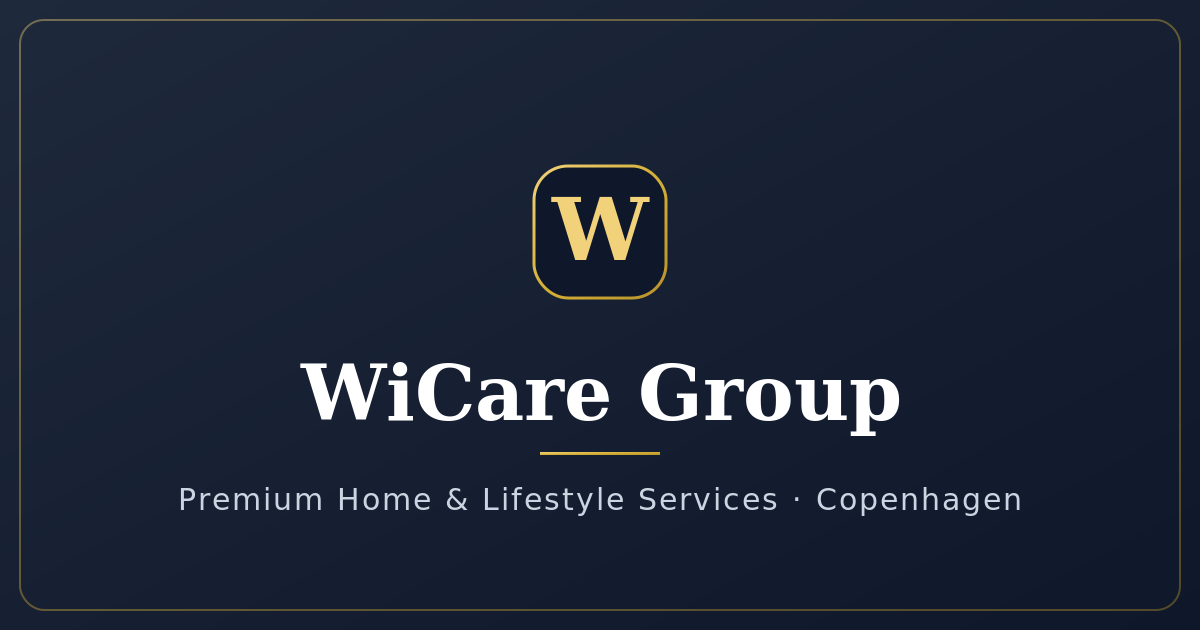
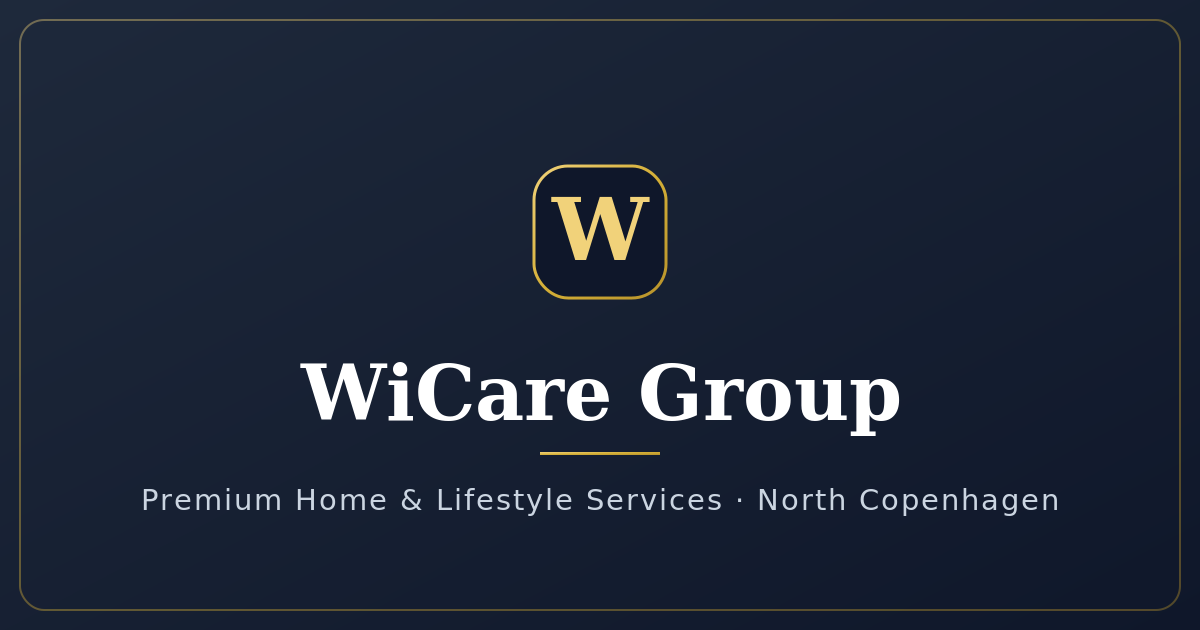
Reposition service area to the northern suburbs of Copenhagen (Hellerup/Gentofte/Rudersdal/Hørsholm) across EN+DK, SEO, schema areaServed, OG image

Changed region(s): [[0.1233, 0.754, 0.8942, 0.8143]]

diff --git a/src/lib/i18n/translations.ts b/src/lib/i18n/translations.ts
@@ -1,19 +1,19 @@
 export type Locale = "en" | "da";
 const en = {
   nav: { services: "Services", whyWiCare: "Why WiCare", testimonials: "Testimonials", contact: "Contact", bookNow: "Book Now", getStarted: "Get Started", callUs: "+45 52 72 11 02" },
-  hero: { badge: "Luxury Home & Lifestyle Services, Copenhagen", title: "Premium Home & Lifestyle Services", titleHighlight: "delivered with care and precision", subtitle: "Discretion. Precision. Trust. One trusted partner managing every aspect of your home, lifestyle, and private residence. Executing your vision with flawless precision.", ctaConsultation: "Request a Consultation", ctaServices: "Our Services" },
+  hero: { badge: "Luxury Home & Lifestyle Services, North Copenhagen", title: "Premium Home & Lifestyle Services", titleHighlight: "delivered with care and precision", subtitle: "Discretion. Precision. Trust. One trusted partner managing every aspect of your home, lifestyle, and private residence. Executing your vision with flawless precision.", ctaConsultation: "Request a Consultation", ctaServices: "Our Services" },
   services: { sectionBadge: "Our Services", heading: "What We Offer", subheading: "Every service is defined based on your agreement. Choose what you need, nothing is pre-bundled.", flagship: "Flagship", extendsNote: "Extends to vehicle detailing, wardrobe care, ambient scenting, and device sanitization, all defined by your agreement.", learnMore: "Learn More", bookAny: "Book Any Service", cards: [{ subtitle: "Executive Home Cleaning", desc: "Premium cleaning for your home and workspace. White-glove service, carefully selected products, flexible scheduling." }, { subtitle: "Private Dining & Catering", desc: "Experienced chefs for private dinners, corporate catering, and exclusive events." }, { subtitle: "Property & Lifestyle Care", desc: "Gardening, construction, handyman services, pet care, and plant expertise. One trusted partner for everything." }] },
   trust: { badge: "Why Choose Us", heading: "The WiCare Difference", keyReasons: [{ title: "Experienced Team", description: "Skilled professionals across every service" }, { title: "Quality Focused", description: "We work to your standards, every visit" }, { title: "Background Checked", description: "Every team member vetted and trusted" }, { title: "Discreet & Reliable", description: "Punctual, professional, every visit" }] },
   whyUs: { badge: "The Difference", heading: "Why Discerning Clients Choose WiCare", subheading: "We are not a cleaning company. We are your trusted partner in maintaining the quality and elegance of your home or office.", ctaBook: "Book a Service", ctaCall: "Call +45 52 72 11 02" },
-  testimonials: { badge: "Client Stories", heading: "What Our Clients Say", list: [{ name: "Sophie", profession: "Executive Director, Copenhagen", rating: 5, review: "WiCare looks after our penthouse with real discretion. The attention to detail is genuinely unmatched.", initials: "SA" }, { name: "Marcus", profession: "Expat & Property Owner", rating: 5, review: "Moving to Copenhagen with a family, I needed a cleaning team I could trust completely. WiCare deliver exactly what they promise: premium, reliable, and perfectly professional.", initials: "MV" }, { name: "Ingrid", profession: "Partner, Law Firm", rating: 5, review: "Our office has never looked better. The team is discreet, punctual, and thorough. The eco-friendly products were important to us. WiCare ticked every box.", initials: "IH" }, { name: "Thomas", profession: "Tech Entrepreneur", rating: 5, review: "I was sceptical about premium cleaning until WiCare. My villa has never been cleaner, and the team works around my busy schedule without any disruption.", initials: "TK" }, { name: "Camille", profession: "French Expat, Finance Director", rating: 5, review: "Every visit is handled with care and zero complaints. WiCare is the only team I trust with my properties.", initials: "CD" }, { name: "Henrik", profession: "Architect", rating: 5, review: "As someone obsessed with detail in my own work, I had very high standards. WiCare not only met them, they exceeded them.", initials: "HC" }], short: [{ profession: "Executive Director, Copenhagen", review: "Impeccable from the very first visit. Zero complaints, and a team I genuinely trust." }, { profession: "Property Owner", review: "The team delivers exactly what they promise. Premium, reliable, and perfectly professional." }, { profession: "Architect", review: "I had very high standards. WiCare not only met them, they exceeded them." }] },
+  testimonials: { badge: "Client Stories", heading: "What Our Clients Say", list: [{ name: "Sophie", profession: "Executive Director, Hellerup", rating: 5, review: "WiCare looks after our penthouse with real discretion. The attention to detail is genuinely unmatched.", initials: "SA" }, { name: "Marcus", profession: "Expat & Property Owner", rating: 5, review: "Moving to the northern suburbs with a family, I needed a cleaning team I could trust completely. WiCare deliver exactly what they promise: premium, reliable, and perfectly professional.", initials: "MV" }, { name: "Ingrid", profession: "Partner, Law Firm", rating: 5, review: "Our office has never looked better. The team is discreet, punctual, and thorough. The eco-friendly products were important to us. WiCare ticked every box.", initials: "IH" }, { name: "Thomas", profession: "Tech Entrepreneur", rating: 5, review: "I was sceptical about premium cleaning until WiCare. My villa has never been cleaner, and the team works around my busy schedule without any disruption.", initials: "TK" }, { name: "Camille", profession: "French Expat, Finance Director", rating: 5, review: "Every visit is handled with care and zero complaints. WiCare is the only team I trust with my properties.", initials: "CD" }, { name: "Henrik", profession: "Architect", rating: 5, review: "As someone obsessed with detail in my own work, I had very high standards. WiCare not only met them, they exceeded them.", initials: "HC" }], short: [{ profession: "Executive Director, Hellerup", review: "Impeccable from the very first visit. Zero complaints, and a team I genuinely trust." }, { profession: "Property Owner", review: "The team delivers exactly what they promise. Premium, reliable, and perfectly professional." }, { profession: "Architect", review: "I had very high standards. WiCare not only met them, they exceeded them." }] },
   booking: { badge: "Book Now", heading: "Ready to Get Started?", subheading: "Call us today. We respond within 2 business hours.", note: "Please store cash, jewellery and other valuables in a secure place before your appointment.", stats: [{ number: "2h", label: "Response Time", desc: "Within business hours" }, { number: "100%", label: "Discreet", desc: "Confidential, respectful service" }, { number: "5", label: "Days a Week", desc: "Monday to Friday" }] },
-  contact: { badge: "Contact", heading: "Get in Touch", intro: "We'd love to hear from you", introDesc: "Our team responds to every enquiry within 2 business hours.", phoneLabel: "Phone", emailLabel: "Email", locationLabel: "Location", location: "Copenhagen, Denmark", ctaCall: "Call Now", ctaEmail: "Send Email", directTitle: "Call Us Directly", directDesc: "Our team is ready to help. No forms, no waiting, just a conversation.", directAvailability: "Available 5 days a week. Response within 2 hours" },
-  footer: { tagline: "Premium lifestyle services for private residences and professional environments across Copenhagen.", navTitle: "Navigate", contactTitle: "Contact", quickLinksTitle: "Quick Links", legalTitle: "Legal", bookNow: "Book Now", cvr: "CVR-nummer: 46213270", copyright: "© 2026 WiCare Cleaning ApS. All rights reserved.", privacy: "Privacy Policy", terms: "Terms of Service", links: [{ label: "Services", href: "/#services" }, { label: "Why WiCare", href: "/#trust" }, { label: "Testimonials", href: "/#testimonials" }, { label: "Book", href: "/#booking" }, { label: "Contact", href: "/#booking" }] },
+  contact: { badge: "Contact", heading: "Get in Touch", intro: "We'd love to hear from you", introDesc: "Our team responds to every enquiry within 2 business hours.", phoneLabel: "Phone", emailLabel: "Email", locationLabel: "Service Area", location: "Northern Suburbs of Copenhagen", ctaCall: "Call Now", ctaEmail: "Send Email", directTitle: "Call Us Directly", directDesc: "Our team is ready to help. No forms, no waiting, just a conversation.", directAvailability: "Available 5 days a week. Response within 2 hours" },
+  footer: { tagline: "Premium lifestyle services for private residences and professional environments across the northern suburbs of Copenhagen.", navTitle: "Navigate", contactTitle: "Contact", quickLinksTitle: "Quick Links", legalTitle: "Legal", bookNow: "Book Now", cvr: "CVR-nummer: 46213270", copyright: "© 2026 WiCare Cleaning ApS. All rights reserved.", privacy: "Privacy Policy", terms: "Terms of Service", links: [{ label: "Services", href: "/#services" }, { label: "Why WiCare", href: "/#trust" }, { label: "Testimonials", href: "/#testimonials" }, { label: "Book", href: "/#booking" }, { label: "Contact", href: "/#booking" }] },
   floating: { bookNow: "Book Now", ariaLabel: "Call WiCare" },
   notFound: { title: "Page Not Found", desc: "Sorry, the page you are looking for does not exist or has moved.", home: "Back to Home" },
   servicePage: { included: "What's Included", whyChoose: "Why Choose", readyToBook: "Ready to Book?", callSchedulePre: "Call us to schedule your", callSchedulePost: "service.", backToServices: "Back to Services", alsoAvailable: "Also Available with WiClean", alsoDesc: "While your home is being serviced, your WiCare team can handle these additional services, tailored to your agreement, never pre-bundled.", bookToday: "Book", bookTodayDesc: "All services are defined based on your agreement. Choose what you need, nothing is pre-bundled. Call us to schedule your", bookTodayDescEnd: "service. We respond within 2 business hours.", viewAll: "View all WiCare services" },
   serviceDetail: {
-    "wi-clean": { name: "WiClean", subtitle: "Executive Home Cleaning", longDescription: "WiClean is our flagship service, the foundation of the WiCare Group. We provide premium residential cleaning for CEOs, executives, and high-net-worth individuals across Copenhagen. Every detail is handled with discretion, precision, and an uncompromising commitment to quality. Our teams are background-checked and trained to a white-glove standard.", features: ["Private residences & estates", "CEO-ready workspaces", "White-glove finish", "Smart product selection", "Background-checked staff", "Respectful of your home"], details: ["Discreet, professional service for discerning clients in Copenhagen", "Thoughtfully selected products balanced for safety and efficacy", "Flexible scheduling for mornings, evenings, weekends", "Dedicated team assigned to your property"] },
+    "wi-clean": { name: "WiClean", subtitle: "Executive Home Cleaning", longDescription: "WiClean is our flagship service, the foundation of the WiCare Group. We provide premium residential cleaning for CEOs, executives, and high-net-worth individuals across the northern suburbs of Copenhagen. Every detail is handled with discretion, precision, and an uncompromising commitment to quality. Our teams are background-checked and trained to a white-glove standard.", features: ["Private residences & estates", "CEO-ready workspaces", "White-glove finish", "Smart product selection", "Background-checked staff", "Respectful of your home"], details: ["Discreet, professional service for discerning clients in the northern suburbs of Copenhagen", "Thoughtfully selected products balanced for safety and efficacy", "Flexible scheduling for mornings, evenings, weekends", "Dedicated team assigned to your property"] },
     "wi-cook": { name: "WiCook", subtitle: "Private Dining & Catering", longDescription: "WiCook brings professional fine-dining and catering expertise directly to your home. Whether it is an intimate dinner for two, a boardroom lunch, or a special celebration, every dish is prepared with precision, creativity, and genuine care. Menus are designed around your tastes and dietary needs.", features: ["Private chef dining", "Corporate catering", "Michelin pedigree", "Bespoke menus", "Wine pairing", "Event planning"], details: ["13+ years of Michelin-star and Danish Parliament experience", "Custom menu design for every occasion", "Ingredient sourcing from premium Danish purveyors", "Seamless setup, service, and cleanup"] },
     "wi-help": { name: "WiHelp", subtitle: "Premier Property & Lifestyle Care", longDescription: "WiHelp is your comprehensive solution for property and lifestyle needs. From expert landscaping and garden design to construction projects, handyman repairs, elite pet valet services, and specialized plant care. Our skilled professionals deliver the same standard of excellence that defines every WiCare brand. One trusted partner handles it all.", features: ["Landscaping & gardening", "Construction projects", "Handyman services", "Property maintenance", "Elite pet valet & walks", "Plant care & botanical expertise", "Leaf dusting & precision watering"], details: ["Vetted, licensed professionals for every service", "Full project management from concept to completion", "Expert plant care for luxury indoor greenery", "GPS-tracked pet walks with photo updates", "Transparent, fixed-price quotes"] }
   },
@@ -24,7 +24,7 @@ const en = {
       { h: "3. Data Storage & Security", p: "Client information is stored securely and accessed only by authorised WiCare personnel. We apply appropriate technical and organisational measures to protect your data." },
       { h: "4. Sharing of Information", p: "We never share personal data without your explicit consent, except where required by law. Our team members are bound by strict confidentiality obligations." },
       { h: "5. Your Rights", p: "Under GDPR you have the right to access, correct, or delete your personal data, and to withdraw consent at any time. Contact us to exercise these rights." },
-      { h: "6. Contact", p: "For any privacy questions, contact WiCare Cleaning ApS (CVR-nummer: 46213270), Copenhagen, Denmark. Phone: +45 52 72 11 02. Email: wicare.cleaning@gmail.com." }
+      { h: "6. Contact", p: "For any privacy questions, contact WiCare Cleaning ApS (CVR-nummer: 46213270), Northern Suburbs of Copenhagen, Denmark. Phone: +45 52 72 11 02. Email: wicare.cleaning@gmail.com." }
     ] },
     terms: { title: "Terms of Service", updated: "Last updated: June 2026", sections: [
       { h: "1. Booking & Confirmation", p: "All services are booked via telephone at +45 52 72 11 02. A booking is confirmed once WiCare Group confirms availability. Services are subject to scheduler availability." },
@@ -33,25 +33,25 @@ const en = {
       { h: "4. Valuables & Liability", p: "Clients are responsible for storing cash, jewellery, and other valuables in a safe, secured place before each visit. WiCare Group is not liable for valuables left unsecured, for pre-existing damage, or for normal wear and tear. Responsibility for personal belongings remains with the client." },
       { h: "5. Privacy", p: "Client information is handled in accordance with our Privacy Policy. We never share personal data without explicit consent." },
       { h: "6. Amendments", p: "WiCare Group reserves the right to amend these terms at any time. Clients will be notified of material changes." },
-      { h: "Contact", p: "WiCare Cleaning ApS (CVR-nummer: 46213270), Copenhagen, Denmark. Phone: +45 52 72 11 02. Email: wicare.cleaning@gmail.com." }
+      { h: "Contact", p: "WiCare Cleaning ApS (CVR-nummer: 46213270), Northern Suburbs of Copenhagen, Denmark. Phone: +45 52 72 11 02. Email: wicare.cleaning@gmail.com." }
     ] }
   }
 };
 const da: typeof en = {
   nav: { services: "Services", whyWiCare: "Hvorfor WiCare", testimonials: "Udtalelser", contact: "Kontakt", bookNow: "Book Nu", getStarted: "Kom i Gang", callUs: "+45 52 72 11 02" },
-  hero: { badge: "Luksus Hjem & Livsstilsservices, København", title: "Premium Hjem & Livsstilsservices", titleHighlight: "leveret med omhu og præcision", subtitle: "Diskretion. Præcision. Tillid. Én betroet partner, der styrer alle aspekter af dit hjem, din livsstil og din private bolig. Vi udfører din vision med fejlfri præcision.", ctaConsultation: "Anmod om Konsultation", ctaServices: "Vores Services" },
+  hero: { badge: "Luksus Hjem & Livsstilsservices, Nord for København", title: "Premium Hjem & Livsstilsservices", titleHighlight: "leveret med omhu og præcision", subtitle: "Diskretion. Præcision. Tillid. Én betroet partner, der styrer alle aspekter af dit hjem, din livsstil og din private bolig. Vi udfører din vision med fejlfri præcision.", ctaConsultation: "Anmod om Konsultation", ctaServices: "Vores Services" },
   services: { sectionBadge: "Vores Services", heading: "Hvad Vi Tilbyder", subheading: "Hver service defineres baseret på din aftale. Vælg hvad du har brug for, intet er forudbestemt.", flagship: "Flagskib", extendsNote: "Omfatter også bilpleje, garderobepleje, duftservice og rengøring af elektronik, alt defineret i din aftale.", learnMore: "Læs Mere", bookAny: "Bestil Enhver Service", cards: [{ subtitle: "Eksklusiv Hjemmerengøring", desc: "Premium rengøring til dit hjem og din arbejdsplads. White-glove service, omhyggeligt udvalgte produkter, fleksibel planlægning." }, { subtitle: "Privat Madlavning & Catering", desc: "Erfarne kokke til private middage, firmacatering og eksklusive events." }, { subtitle: "Ejendoms- & Livsstilspleje", desc: "Havearbejde, byggeri, handyman-service, kæledyrspleje og planteekspertise. Én betroet partner til det hele." }] },
   trust: { badge: "Hvorfor Vælge Os", heading: "WiCare Forskellen", keyReasons: [{ title: "Erfarent Team", description: "Dygtige fagfolk på tværs af alle services" }, { title: "Kvalitetsfokuseret", description: "Vi arbejder efter dine standarder, hvert besøg" }, { title: "Baggrundstjekket", description: "Hvert teammedlem er godkendt og betroet" }, { title: "Diskret & Pålidelig", description: "Punktlig og professionel ved hvert besøg" }] },
   whyUs: { badge: "Forskellen", heading: "Hvorfor Kræsne Kunder Vælger WiCare", subheading: "Vi er ikke et rengøringsfirma. Vi er din betroede partner i at opretholde kvaliteten og elegancen i dit hjem eller kontor.", ctaBook: "Bestil en Service", ctaCall: "Ring +45 52 72 11 02" },
-  testimonials: { badge: "Kundehistorier", heading: "Hvad Vores Kunder Siger", list: [{ name: "Sophie", profession: "Executive Director, København", rating: 5, review: "WiCare passer vores penthouse med ægte diskretion. Opmærksomheden på detaljer er virkelig uovertruffen.", initials: "SA" }, { name: "Marcus", profession: "Ekspat & Ejendomsejer", rating: 5, review: "Da jeg flyttede til København med familie, havde jeg brug for et rengøringsteam, jeg kunne stole fuldstændigt på. WiCare leverer præcis, hvad de lover: premium, pålideligt og perfekt professionelt.", initials: "MV" }, { name: "Ingrid", profession: "Partner, Advokatfirma", rating: 5, review: "Vores kontor har aldrig set bedre ud. Teamet er diskret, punktligt og grundigt. De miljøvenlige produkter var vigtige for os. WiCare opfyldte alle krav.", initials: "IH" }, { name: "Thomas", profession: "Tech Iværksætter", rating: 5, review: "Jeg var skeptisk over for premium rengøring indtil WiCare. Min villa har aldrig været renere, og teamet arbejder omkring min travle tidsplan uden nogen forstyrrelse.", initials: "TK" }, { name: "Camille", profession: "Fransk Ekspat, Finansdirektør", rating: 5, review: "Hvert besøg håndteres med omhu og nul klager. WiCare er det eneste team, jeg stoler på med mine ejendomme.", initials: "CD" }, { name: "Henrik", profession: "Arkitekt", rating: 5, review: "Som en, der er besat af detaljer i mit eget arbejde, havde jeg meget høje standarder. WiCare opfyldte dem ikke kun, de overgik dem.", initials: "HC" }], short: [{ profession: "Executive Director, København", review: "Upåklagelig fra allerførste besøg. Nul klager, og et team jeg virkelig stoler på." }, { profession: "Ejendomsejer", review: "Teamet leverer præcis, hvad de lover. Premium, pålideligt og perfekt professionelt." }, { profession: "Arkitekt", review: "Jeg havde meget høje standarder. WiCare opfyldte dem ikke kun, de overgik dem." }] },
+  testimonials: { badge: "Kundehistorier", heading: "Hvad Vores Kunder Siger", list: [{ name: "Sophie", profession: "Executive Director, Hellerup", rating: 5, review: "WiCare passer vores penthouse med ægte diskretion. Opmærksomheden på detaljer er virkelig uovertruffen.", initials: "SA" }, { name: "Marcus", profession: "Ekspat & Ejendomsejer", rating: 5, review: "Da jeg flyttede til de nordlige forstæder med familie, havde jeg brug for et rengøringsteam, jeg kunne stole fuldstændigt på. WiCare leverer præcis, hvad de lover: premium, pålideligt og perfekt professionelt.", initials: "MV" }, { name: "Ingrid", profession: "Partner, Advokatfirma", rating: 5, review: "Vores kontor har aldrig set bedre ud. Teamet er diskret, punktligt og grundigt. De miljøvenlige produkter var vigtige for os. WiCare opfyldte alle krav.", initials: "IH" }, { name: "Thomas", profession: "Tech Iværksætter", rating: 5, review: "Jeg var skeptisk over for premium rengøring indtil WiCare. Min villa har aldrig været renere, og teamet arbejder omkring min travle tidsplan uden nogen forstyrrelse.", initials: "TK" }, { name: "Camille", profession: "Fransk Ekspat, Finansdirektør", rating: 5, review: "Hvert besøg håndteres med omhu og nul klager. WiCare er det eneste team, jeg stoler på med mine ejendomme.", initials: "CD" }, { name: "Henrik", profession: "Arkitekt", rating: 5, review: "Som en, der er besat af detaljer i mit eget arbejde, havde jeg meget høje standarder. WiCare opfyldte dem ikke kun, de overgik dem.", initials: "HC" }], short: [{ profession: "Executive Director, Hellerup", review: "Upåklagelig fra allerførste besøg. Nul klager, og et team jeg virkelig stoler på." }, { profession: "Ejendomsejer", review: "Teamet leverer præcis, hvad de lover. Premium, pålideligt og perfekt professionelt." }, { profession: "Arkitekt", review: "Jeg havde meget høje standarder. WiCare opfyldte dem ikke kun, de overgik dem." }] },
   booking: { badge: "Book Nu", heading: "Klar til at Komme i Gang?", subheading: "Ring til os i dag. Vi svarer inden for 2 arbejdstimer.", note: "Opbevar venligst kontanter, smykker og andre værdigenstande et sikkert sted inden din aftale.", stats: [{ number: "2t", label: "Svartid", desc: "Inden for arbejdstid" }, { number: "100%", label: "Diskret", desc: "Fortrolig, respektfuld service" }, { number: "5", label: "Dage om Ugen", desc: "Mandag til fredag" }] },
-  contact: { badge: "Kontakt", heading: "Kom i Kontakt", intro: "Vi vil gerne høre fra dig", introDesc: "Vores team svarer på alle henvendelser inden for 2 arbejdstimer.", phoneLabel: "Telefon", emailLabel: "Email", locationLabel: "Beliggenhed", location: "København, Danmark", ctaCall: "Ring Nu", ctaEmail: "Send Email", directTitle: "Ring til Os Direkte", directDesc: "Vores team er klar til at hjælpe. Ingen formularer, ingen ventetid, bare en samtale.", directAvailability: "Tilgængelig 5 dage om ugen. Svar inden for 2 timer" },
-  footer: { tagline: "Premium livsstilsservices til private boliger og professionelle miljøer i hele København.", navTitle: "Navigation", contactTitle: "Kontakt", quickLinksTitle: "Hurtige Links", legalTitle: "Juridisk", bookNow: "Book Nu", cvr: "CVR-nummer: 46213270", copyright: "© 2026 WiCare Cleaning ApS. Alle rettigheder forbeholdes.", privacy: "Privatlivspolitik", terms: "Servicevilkår", links: [{ label: "Services", href: "/#services" }, { label: "Hvorfor WiCare", href: "/#trust" }, { label: "Udtalelser", href: "/#testimonials" }, { label: "Book", href: "/#booking" }, { label: "Kontakt", href: "/#booking" }] },
+  contact: { badge: "Kontakt", heading: "Kom i Kontakt", intro: "Vi vil gerne høre fra dig", introDesc: "Vores team svarer på alle henvendelser inden for 2 arbejdstimer.", phoneLabel: "Telefon", emailLabel: "Email", locationLabel: "Serviceområde", location: "Københavns nordlige forstæder", ctaCall: "Ring Nu", ctaEmail: "Send Email", directTitle: "Ring til Os Direkte", directDesc: "Vores team er klar til at hjælpe. Ingen formularer, ingen ventetid, bare en samtale.", directAvailability: "Tilgængelig 5 dage om ugen. Svar inden for 2 timer" },
+  footer: { tagline: "Premium livsstilsservices til private boliger og professionelle miljøer i Københavns nordlige forstæder.", navTitle: "Navigation", contactTitle: "Kontakt", quickLinksTitle: "Hurtige Links", legalTitle: "Juridisk", bookNow: "Book Nu", cvr: "CVR-nummer: 46213270", copyright: "© 2026 WiCare Cleaning ApS. Alle rettigheder forbeholdes.", privacy: "Privatlivspolitik", terms: "Servicevilkår", links: [{ label: "Services", href: "/#services" }, { label: "Hvorfor WiCare", href: "/#trust" }, { label: "Udtalelser", href: "/#testimonials" }, { label: "Book", href: "/#booking" }, { label: "Kontakt", href: "/#booking" }] },
   floating: { bookNow: "Book Nu", ariaLabel: "Ring til WiCare" },
   notFound: { title: "Siden Blev Ikke Fundet", desc: "Beklager, siden du leder efter findes ikke eller er flyttet.", home: "Tilbage til Forsiden" },
   servicePage: { included: "Hvad Er Inkluderet", whyChoose: "Hvorfor Vælge", readyToBook: "Klar til at Booke?", callSchedulePre: "Ring til os for at planlægge din", callSchedulePost: "service.", backToServices: "Tilbage til Services", alsoAvailable: "Også Tilgængelig med WiClean", alsoDesc: "Mens dit hjem bliver serviceret, kan dit WiCare-team håndtere disse ekstra services, skræddersyet til din aftale, aldrig forudbestemt.", bookToday: "Bestil", bookTodayDesc: "Alle services defineres baseret på din aftale. Vælg hvad du har brug for, intet er forudbestemt. Ring til os for at planlægge din", bookTodayDescEnd: "service. Vi svarer inden for 2 arbejdstimer.", viewAll: "Se alle WiCare services" },
   serviceDetail: {
-    "wi-clean": { name: "WiClean", subtitle: "Eksklusiv Hjemmerengøring", longDescription: "WiClean er vores flagskibsservice og fundamentet for WiCare Group. Vi leverer premium boligrengøring til direktører, ledere og personer med høj nettoformue i hele København. Hver detalje håndteres med diskretion, præcision og en kompromisløs forpligtelse til kvalitet. Vores teams er baggrundstjekkede og trænet til en white-glove standard.", features: ["Private boliger & ejendomme", "Direktørklare arbejdspladser", "White-glove finish", "Smart produktvalg", "Baggrundstjekket personale", "Respekt for dit hjem"], details: ["Diskret, professionel service for kræsne kunder i København", "Omhyggeligt udvalgte produkter balanceret for sikkerhed og effektivitet", "Fleksibel planlægning til morgener, aftener og weekender", "Dedikeret team tildelt din ejendom"] },
+    "wi-clean": { name: "WiClean", subtitle: "Eksklusiv Hjemmerengøring", longDescription: "WiClean er vores flagskibsservice og fundamentet for WiCare Group. Vi leverer premium boligrengøring til direktører, ledere og personer med høj nettoformue i Københavns nordlige forstæder. Hver detalje håndteres med diskretion, præcision og en kompromisløs forpligtelse til kvalitet. Vores teams er baggrundstjekkede og trænet til en white-glove standard.", features: ["Private boliger & ejendomme", "Direktørklare arbejdspladser", "White-glove finish", "Smart produktvalg", "Baggrundstjekket personale", "Respekt for dit hjem"], details: ["Diskret, professionel service for kræsne kunder i Københavns nordlige forstæder", "Omhyggeligt udvalgte produkter balanceret for sikkerhed og effektivitet", "Fleksibel planlægning til morgener, aftener og weekender", "Dedikeret team tildelt din ejendom"] },
     "wi-cook": { name: "WiCook", subtitle: "Privat Madlavning & Catering", longDescription: "WiCook bringer professionel fine-dining- og cateringekspertise direkte til dit hjem. Uanset om det er en intim middag for to, en frokost i bestyrelseslokalet eller en særlig fejring, tilberedes hver ret med præcision, kreativitet og ægte omhu. Menuer designes ud fra din smag og dine kostbehov.", features: ["Privat kokmiddag", "Erhvervscatering", "Michelin-baggrund", "Skræddersyede menuer", "Vinmenu", "Eventplanlægning"], details: ["13+ års erfaring fra Michelin-restauranter og Folketinget", "Skræddersyet menudesign til enhver lejlighed", "Råvarer fra førende danske leverandører", "Problemfri opdækning, servering og oprydning"] },
     "wi-help": { name: "WiHelp", subtitle: "Førende Ejendoms- & Livsstilspleje", longDescription: "WiHelp er din samlede løsning til ejendoms- og livsstilsbehov. Fra ekspert-landskabspleje og havedesign til byggeprojekter, handyman-reparationer, eksklusiv kæledyrsservice og specialiseret plantepleje. Vores dygtige fagfolk leverer den samme høje standard, der definerer alle WiCare-brands. Én betroet partner klarer det hele.", features: ["Landskabspleje & havearbejde", "Byggeprojekter", "Handyman-service", "Ejendomsvedligeholdelse", "Eksklusiv kæledyrspasning & gåture", "Plantepleje & botanisk ekspertise", "Bladafstøvning & præcisionsvanding"], details: ["Godkendte, autoriserede fagfolk til hver service", "Fuld projektledelse fra idé til færdiggørelse", "Ekspert plantepleje til luksus indendørs grønt", "GPS-sporede gåture med fotoopdateringer", "Gennemsigtige tilbud til fast pris"] }
   },
@@ -62,7 +62,7 @@ const da: typeof en = {
       { h: "3. Datalagring & Sikkerhed", p: "Kundeoplysninger opbevares sikkert og tilgås kun af autoriseret WiCare-personale. Vi anvender passende tekniske og organisatoriske foranstaltninger for at beskytte dine data." },
       { h: "4. Deling af Oplysninger", p: "Vi deler aldrig personoplysninger uden dit udtrykkelige samtykke, undtagen hvor loven kræver det. Vores medarbejdere er bundet af strenge fortrolighedsforpligtelser." },
       { h: "5. Dine Rettigheder", p: "I henhold til GDPR har du ret til at få adgang til, rette eller slette dine personoplysninger og til at trække dit samtykke tilbage til enhver tid. Kontakt os for at udøve disse rettigheder." },
-      { h: "6. Kontakt", p: "For spørgsmål om privatliv, kontakt WiCare Cleaning ApS (CVR-nummer: 46213270), København, Danmark. Telefon: +45 52 72 11 02. Email: wicare.cleaning@gmail.com." }
+      { h: "6. Kontakt", p: "For spørgsmål om privatliv, kontakt WiCare Cleaning ApS (CVR-nummer: 46213270), Københavns nordlige forstæder, Danmark. Telefon: +45 52 72 11 02. Email: wicare.cleaning@gmail.com." }
     ] },
     terms: { title: "Servicevilkår", updated: "Senest opdateret: juni 2026", sections: [
       { h: "1. Booking & Bekræftelse", p: "Alle services bookes telefonisk på +45 52 72 11 02. En booking bekræftes, når WiCare Group bekræfter tilgængelighed. Services er underlagt planlæggerens tilgængelighed." },
@@ -71,7 +71,7 @@ const da: typeof en = {
       { h: "4. Værdigenstande & Ansvar", p: "Kunder er ansvarlige for at opbevare kontanter, smykker og andre værdigenstande på et sikkert, aflåst sted inden hvert besøg. WiCare Group er ikke ansvarlig for værdigenstande, der efterlades usikrede, for eksisterende skader eller for almindeligt slid. Ansvaret for personlige ejendele forbliver hos kunden." },
       { h: "5. Privatliv", p: "Kundeoplysninger håndteres i overensstemmelse med vores Privatlivspolitik. Vi deler aldrig personoplysninger uden udtrykkeligt samtykke." },
       { h: "6. Ændringer", p: "WiCare Group forbeholder sig retten til at ændre disse vilkår til enhver tid. Kunder vil blive underrettet om væsentlige ændringer." },
-      { h: "Kontakt", p: "WiCare Cleaning ApS (CVR-nummer: 46213270), København, Danmark. Telefon: +45 52 72 11 02. Email: wicare.cleaning@gmail.com." }
+      { h: "Kontakt", p: "WiCare Cleaning ApS (CVR-nummer: 46213270), Københavns nordlige forstæder, Danmark. Telefon: +45 52 72 11 02. Email: wicare.cleaning@gmail.com." }
     ] }
   }
 };

diff --git a/src/lib/services.ts b/src/lib/services.ts
@@ -15,17 +15,17 @@ export const services: Service[] = [
     name: 'WiClean',
     subtitle: 'Executive Home Cleaning',
     description: 'Premium residential cleaning for CEOs and industry leaders. Discreet, meticulous, and tailored to the highest standards of luxury living.',
-    longDescription: 'WiClean is our flagship service, the foundation of the WiCare Group. We provide premium residential cleaning for CEOs, executives, and high-net-worth individuals across Copenhagen. Every detail is handled with discretion, precision, and an uncompromising commitment to quality. Our teams are background-checked and trained to a white-glove standard.',
+    longDescription: 'WiClean is our flagship service, the foundation of the WiCare Group. We provide premium residential cleaning for CEOs, executives, and high-net-worth individuals across the northern suburbs of Copenhagen. Every detail is handled with discretion, precision, and an uncompromising commitment to quality. Our teams are background-checked and trained to a white-glove standard.',
     features: ['Private residences & estates', 'CEO-ready workspaces', 'White-glove finish', 'Smart product selection', 'Background-checked staff', 'Respectful of your home'],
-    details: ['Serving Copenhagen\'s most discerning clients since 2016', 'Thoughtfully selected products balanced for safety and efficacy', 'Flexible scheduling for mornings, evenings, weekends', 'Dedicated team assigned to your property'],
+    details: ['Serving the northern suburbs\' most discerning clients since 2016', 'Thoughtfully selected products balanced for safety and efficacy', 'Flexible scheduling for mornings, evenings, weekends', 'Dedicated team assigned to your property'],
     highlight: true,
   },
   {
     slug: 'wi-cook',
     name: 'WiCook',
     subtitle: 'Private Dining & Catering',
-    description: 'Professional private chef experiences, exclusive dinner parties, and executive catering in Copenhagen.',
-    longDescription: 'WiCook brings Michelin-star and Danish Parliament culinary expertise directly to your home. Our chefs have cooked for heads of state, royalty, and the most demanding palates in Copenhagen. Whether it is an intimate dinner for two, a boardroom lunch, or a grand celebration, every dish is crafted with precision, creativity, and world-class technique.',
+    description: 'Professional private chef experiences, exclusive dinner parties, and executive catering in the northern suburbs of Copenhagen.',
+    longDescription: 'WiCook brings Michelin-star and Danish Parliament culinary expertise directly to your home. Our chefs have cooked for heads of state, royalty, and the most demanding palates in the northern suburbs of Copenhagen. Whether it is an intimate dinner for two, a boardroom lunch, or a grand celebration, every dish is crafted with precision, creativity, and world-class technique.',
     features: ['Private chef dining', 'Corporate catering', 'Michelin pedigree', 'Bespoke menus', 'Wine pairing', 'Event planning'],
     details: ['13+ years of Michelin-star and Danish Parliament experience', 'Custom menu design for every occasion', 'Ingredient sourcing from premium Danish purveyors', 'Seamless setup, service, and cleanup'],
   },

diff --git a/src/app/layout.tsx b/src/app/layout.tsx
@@ -12,14 +12,14 @@ const siteUrl = process.env.NEXT_PUBLIC_SITE_URL || "https://wicare.vip";
 
 export const metadata: Metadata = {
   title: "WiCare Group | Premium Home & Lifestyle Services Copenhagen",
-  description: "WiCare Group offers premium home and lifestyle services in Copenhagen: WiClean, WiCook, and WiHelp.",
-  keywords: ["luxury home services Copenhagen", "private chef Copenhagen", "premium cleaning Denmark", "executive lifestyle services", "WiCare", "concierge services Copenhagen", "high net worth services Denmark", "property care", "WiClean", "WiCook", "WiHelp"],
+  description: "WiCare Group offers premium home and lifestyle services in the northern suburbs of Copenhagen: WiClean, WiCook, and WiHelp.",
+  keywords: ["luxury home services North Copenhagen", "private chef Hellerup", "premium cleaning Gentofte", "executive lifestyle services Rudersdal", "WiCare", "concierge services Hellerup", "home services Hørsholm", "property care Charlottenlund", "Strandvejen luxury services", "WiClean", "WiCook", "WiHelp"],
   metadataBase: new URL(siteUrl),
   alternates: { canonical: "/" },
   openGraph: {
     type: "website", locale: "en_DK", siteName: "WiCare Group",
     title: "WiCare Group | Premium Home & Lifestyle Services",
-    description: "Premium home and lifestyle services delivered with discretion, precision, and trust, across Copenhagen.",
+    description: "Premium home and lifestyle services delivered with discretion, precision, and trust, across the northern suburbs of Copenhagen.",
     url: siteUrl,
     images: [{ url: "/og-image.png", width: 1200, height: 630, alt: "WiCare Group" }],
   },
@@ -62,8 +62,18 @@ j=d.createElement(s),dl=l!='dataLayer'?'&l='+l:'';j.async=true;j.src=
               name: "WiCare Group",
               url: siteUrl,
               logo: `${siteUrl}/logo.png`,
-              description: "Premium home and lifestyle services for private residences and professionals across Copenhagen: cleaning, private dining, and property care.",
-              address: { "@type": "PostalAddress", addressLocality: "Copenhagen", addressCountry: "DK" },
+              description: "Premium home and lifestyle services for private residences and professionals across the northern suburbs of Copenhagen: cleaning, private dining, and property care.",
+              address: { "@type": "PostalAddress", addressLocality: "Hellerup", addressRegion: "Capital Region of Denmark", addressCountry: "DK" },
+              areaServed: [
+                { "@type": "City", name: "Hellerup" },
+                { "@type": "City", name: "Charlottenlund" },
+                { "@type": "City", name: "Klampenborg" },
+                { "@type": "City", name: "Gentofte" },
+                { "@type": "AdministrativeArea", name: "Rudersdal" },
+                { "@type": "AdministrativeArea", name: "Hørsholm" },
+                { "@type": "City", name: "Rungsted" },
+                { "@type": "City", name: "Vedbæk" },
+              ],
               telephone: "+4552721102",
               email: "wicare.cleaning@gmail.com",
               foundingDate: "2026",

diff --git a/src/app/services/[slug]/page.tsx b/src/app/services/[slug]/page.tsx
@@ -11,9 +11,9 @@ export async function generateMetadata({ params }: { params: Promise<{ slug: str
   const service = services.find((s) => s.slug === slug);
   if (!service) return {};
   return {
-    title: `${service.name} | WiCare Group Copenhagen`,
+    title: `${service.name} | WiCare Group North Copenhagen`,
     description: service.description,
-    keywords: [`${service.name}`, `${service.subtitle}`, 'Copenhagen', 'luxury home services', 'WiCare Group'],
+    keywords: [`${service.name}`, `${service.subtitle}`, 'North Copenhagen', 'Hellerup', 'Gentofte', 'luxury home services', 'WiCare Group'],
     openGraph: {
       title: `${service.name} | WiCare Group`,
       description: service.description,
@@ -44,9 +44,16 @@ export default async function ServicePage({ params }: { params: Promise<{ slug: 
             provider: {
               '@type': 'Organization',
               name: 'WiCare Group',
-              address: { '@type': 'PostalAddress', addressLocality: 'Copenhagen', addressCountry: 'DK' },
+              address: { '@type': 'PostalAddress', addressLocality: 'Hellerup', addressRegion: 'Capital Region of Denmark', addressCountry: 'DK' },
             },
-            areaServed: { '@type': 'City', name: 'Copenhagen' },
+            areaServed: [
+              { '@type': 'City', name: 'Hellerup' },
+              { '@type': 'City', name: 'Charlottenlund' },
+              { '@type': 'City', name: 'Klampenborg' },
+              { '@type': 'City', name: 'Gentofte' },
+              { '@type': 'AdministrativeArea', name: 'Rudersdal' },
+              { '@type': 'AdministrativeArea', name: 'Hørsholm' },
+            ],
           }),
         }}
       />

diff --git a/src/app/terms/page.tsx b/src/app/terms/page.tsx
@@ -2,11 +2,11 @@ import LegalContent from '@/components/LegalContent';
 
 export const metadata = {
   title: 'Terms of Service | WiCare Group',
-  description: 'Terms and conditions for WiCare Group premium lifestyle services in Copenhagen.',
+  description: 'Terms and conditions for WiCare Group premium lifestyle services in the northern suburbs of Copenhagen.',
   alternates: { canonical: '/terms/' },
   openGraph: {
     title: 'Terms of Service | WiCare Group',
-    description: 'Terms and conditions for WiCare Group premium lifestyle services in Copenhagen.',
+    description: 'Terms and conditions for WiCare Group premium lifestyle services in the northern suburbs of Copenhagen.',
     url: '/terms/',
     siteName: 'WiCare Group',
     locale: 'en_DK',
